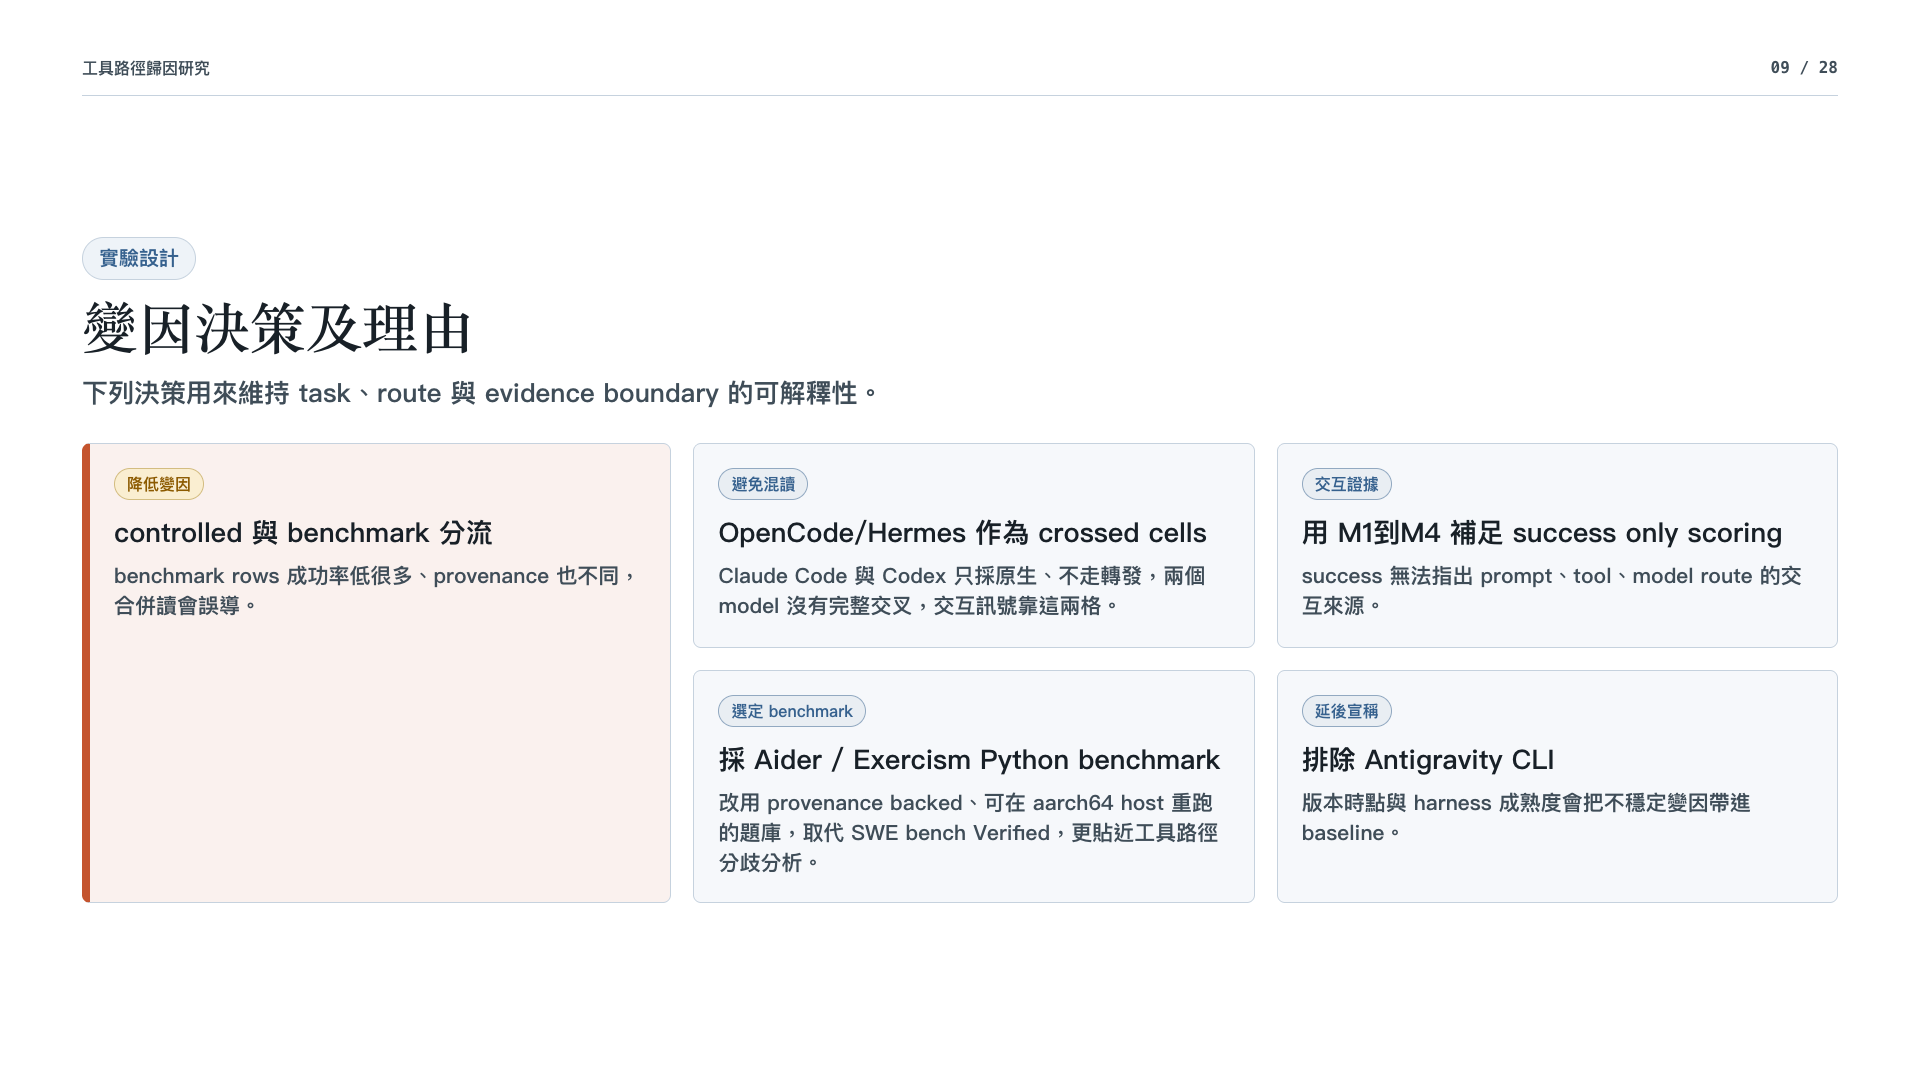
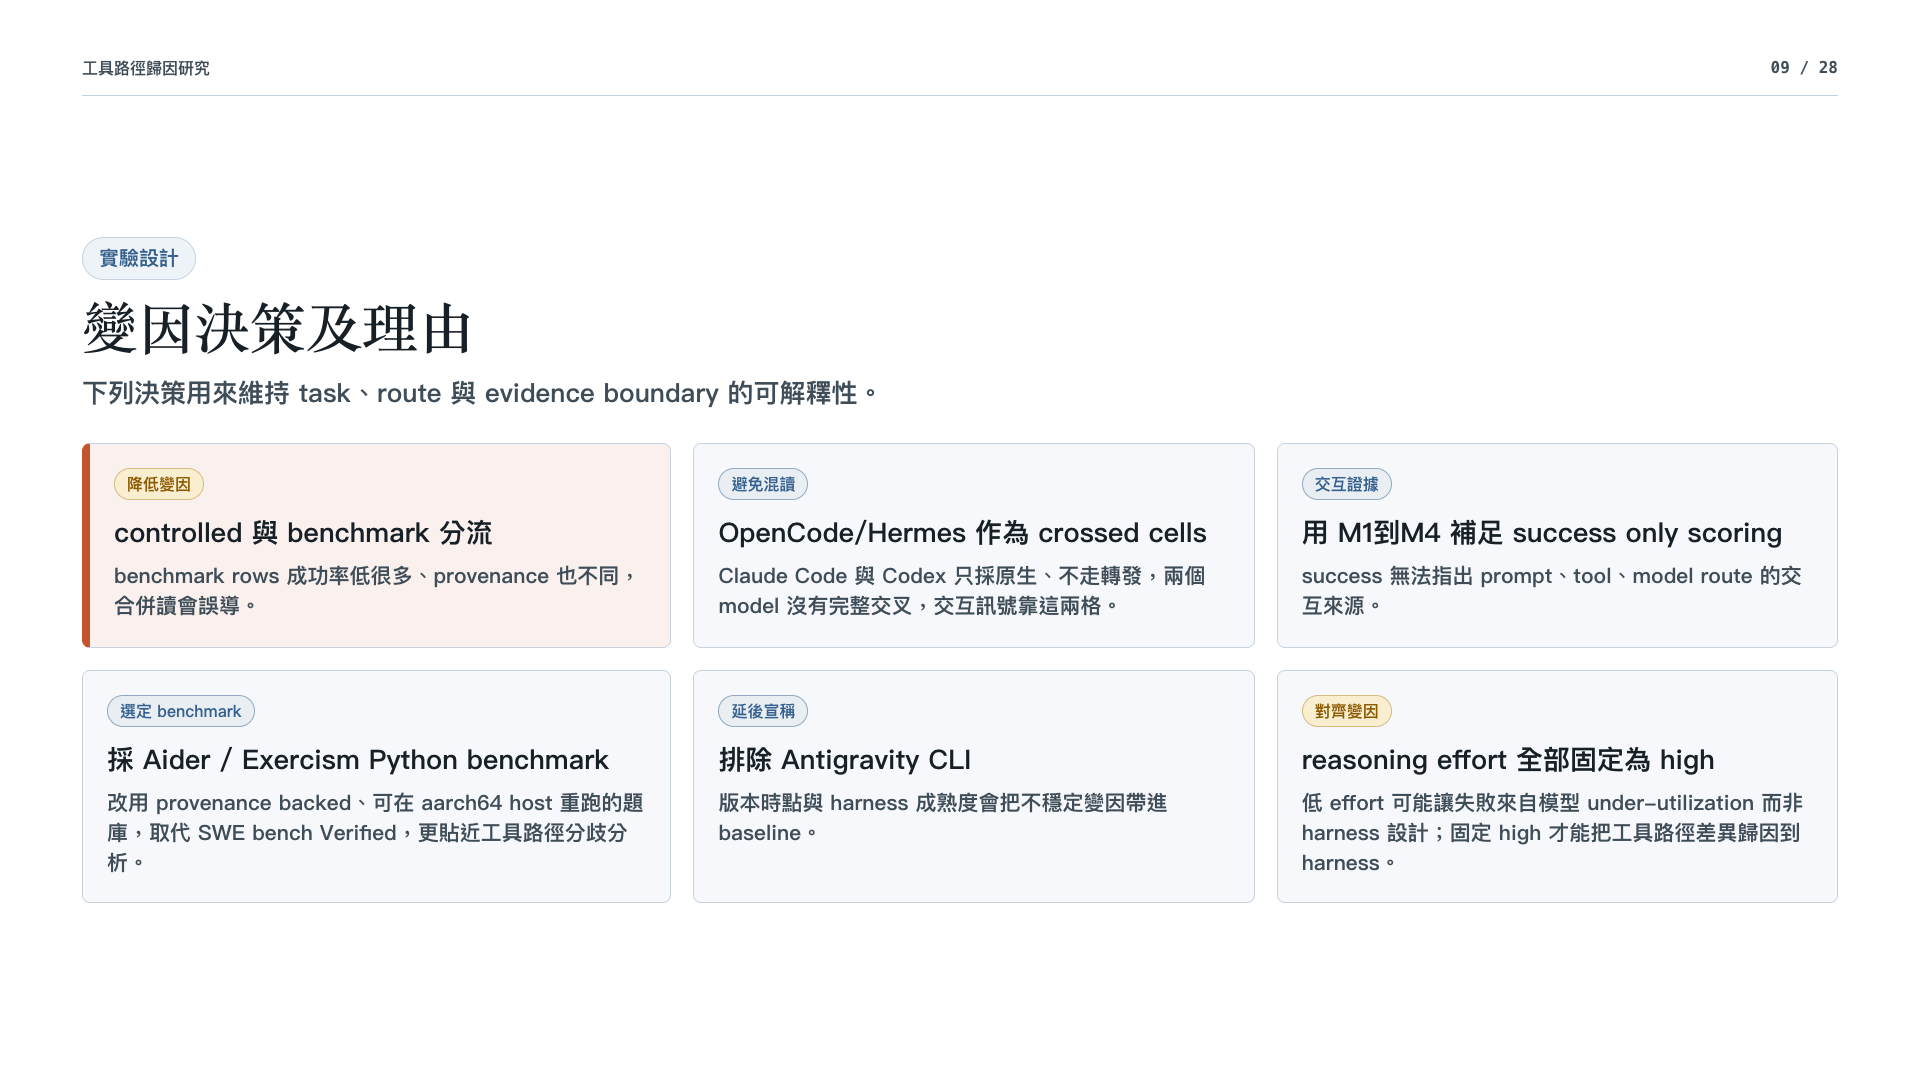
docs(phase5): add effort-rationale card to v2_7 slide 09 + deliver PPTX
- Slide 09: new sixth tradeoff card "reasoning effort 全部固定為 high",
  covering proposal tradeoff #3 (low effort would misattribute failure to
  model under-utilization rather than harness design); layout rebalanced
  to a uniform 2x3 grid.
- Re-rendered preview/slide-09.png via system Chrome (font-consistent
  with the other 27 pages).
- Add ppt-handoff/xAI-faithfulness-harness-v2_7.pptx: 28-slide 16:9 deck,
  one full-bleed render per HTML page (faithful, no text reflow).
- Add build-pptx-v2_7.py (assembly) and render-slide.py (single-page
  re-render) for reproducibility; MANIFEST updated.

Changed region(s): [[0.375, 0.6417, 0.9375, 0.825], [0.0312, 0.6111, 0.3438, 0.825]]

diff --git a/analysis/phase5/xai-presentation-pack/ppt-handoff/v2_7/xAI-faithfulness-harness-v2_7.html b/analysis/phase5/xai-presentation-pack/ppt-handoff/v2_7/xAI-faithfulness-harness-v2_7.html
@@ -936,7 +936,6 @@
       background: var(--surface);
     }
     .tradeoff-cards article:first-child {
-      grid-row: span 2;
       border-left: 8px solid var(--accent-2);
       background: color-mix(in srgb, var(--accent-2) 8%, var(--bg));
     }
@@ -1660,6 +1659,10 @@
       <span class="pill accent">延後宣稱</span>
       <h3>排除 Antigravity CLI</h3>
       <p>版本時點與 harness 成熟度會把不穩定變因帶進 baseline。</p>
+    </article><article>
+      <span class="pill warn">對齊變因</span>
+      <h3>reasoning effort 全部固定為 high</h3>
+      <p>低 effort 可能讓失敗來自模型 under-utilization 而非 harness 設計；固定 high 才能把工具路徑差異歸因到 harness。</p>
     </article>
   </div>
     

diff --git a/analysis/phase5/xai-presentation-pack/ppt-handoff/v2_7/build-pptx-v2_7.py b/analysis/phase5/xai-presentation-pack/ppt-handoff/v2_7/build-pptx-v2_7.py
@@ -1,0 +1,35 @@
+#!/usr/bin/env python3
+"""把 v2_7 HTML 的每一頁渲染圖各自鋪滿一張 16:9 投影片，組成 .pptx。
+
+來源：preview/slide-01.png .. slide-28.png（1920x1080，與 v2_7 HTML 同步渲染）。
+輸出：ppt-handoff/xAI-faithfulness-harness-v2_7.pptx
+忠實保留 HTML 版面，不重排文字。
+"""
+from pathlib import Path
+
+from pptx import Presentation
+from pptx.util import Inches
+
+HERE = Path(__file__).resolve().parent          # .../ppt-handoff/v2_7
+PREVIEW = HERE / "preview"
+OUT = HERE.parent / "xAI-faithfulness-harness-v2_7.pptx"  # .../ppt-handoff/
+
+# 16:9，1920x1080 對應 13.333in x 7.5in，整頁鋪滿不變形。
+SLIDE_W = Inches(13.333)
+SLIDE_H = Inches(7.5)
+
+slides = sorted(PREVIEW.glob("slide-*.png"))
+if len(slides) != 28:
+    raise SystemExit(f"expected 28 slide PNGs, found {len(slides)}")
+
+prs = Presentation()
+prs.slide_width = SLIDE_W
+prs.slide_height = SLIDE_H
+blank = prs.slide_layouts[6]  # 全空白版面
+
+for png in slides:
+    slide = prs.slides.add_slide(blank)
+    slide.shapes.add_picture(str(png), 0, 0, width=SLIDE_W, height=SLIDE_H)
+
+prs.save(str(OUT))
+print(f"wrote {OUT} with {len(prs.slides._sldIdLst)} slides")

diff --git a/analysis/phase5/xai-presentation-pack/ppt-handoff/v2_7/render-slide.py b/analysis/phase5/xai-presentation-pack/ppt-handoff/v2_7/render-slide.py
@@ -1,0 +1,35 @@
+#!/usr/bin/env python3
+"""把 v2_7 HTML 的指定頁（1-based）渲染成 1920x1080 PNG。
+
+用系統 Chrome（channel=chrome）以對齊 macOS 字型，確保重渲染的單頁與
+原 preview 其餘頁面風格一致。
+
+用法: python3 render-slide.py <slide_no> <out.png>
+"""
+import sys
+from pathlib import Path
+from playwright.sync_api import sync_playwright
+
+HERE = Path(__file__).resolve().parent
+HTML = (HERE / "xAI-faithfulness-harness-v2_7.html").as_uri()
+
+n = int(sys.argv[1])
+out = sys.argv[2]
+
+with sync_playwright() as p:
+    b = p.chromium.launch(channel="chrome")
+    pg = b.new_page(viewport={"width": 1920, "height": 1080}, device_scale_factor=1)
+    pg.goto(HTML)
+    pg.evaluate(
+        """(n)=>{
+            document.documentElement.style.setProperty('--deck-scale','1');
+            const s=[...document.querySelectorAll('.slide')];
+            s.forEach((el,i)=>el.classList.toggle('active', i===n-1));
+        }""",
+        n,
+    )
+    pg.wait_for_timeout(400)
+    el = pg.query_selector(".slide.active")
+    el.screenshot(path=out)
+    b.close()
+print(f"rendered slide {n} -> {out}")

diff --git a/analysis/phase5/xai-presentation-pack/ppt-handoff/v2_7/MANIFEST-v2_7.md b/analysis/phase5/xai-presentation-pack/ppt-handoff/v2_7/MANIFEST-v2_7.md
@@ -26,3 +26,7 @@ v2_7 修訂重點:
 - Slide 05、07、09、11、12、13、16、17、22、27、28 改為正式簡報語氣。
 - Slide 07 補上 20 題任務類型；Slide 27 加入平均 token 用量分析。
 - 可見文字移除長破折號與 en dash。
+- Slide 09 新增第六張取捨卡「reasoning effort 全部固定為 high」，補上 proposal 取捨③理由（低 effort 會把失敗誤歸因到模型 under-utilization 而非 harness），版面改為均衡 2x3。
+
+PPTX 交付:
+- `../xAI-faithfulness-harness-v2_7.pptx`（28 頁、16:9）由 `build-pptx-v2_7.py` 把 `preview/slide-01..28.png` 每頁整頁鋪滿生成；單頁重渲染用 `render-slide.py`（系統 Chrome，對齊 macOS 字型）。